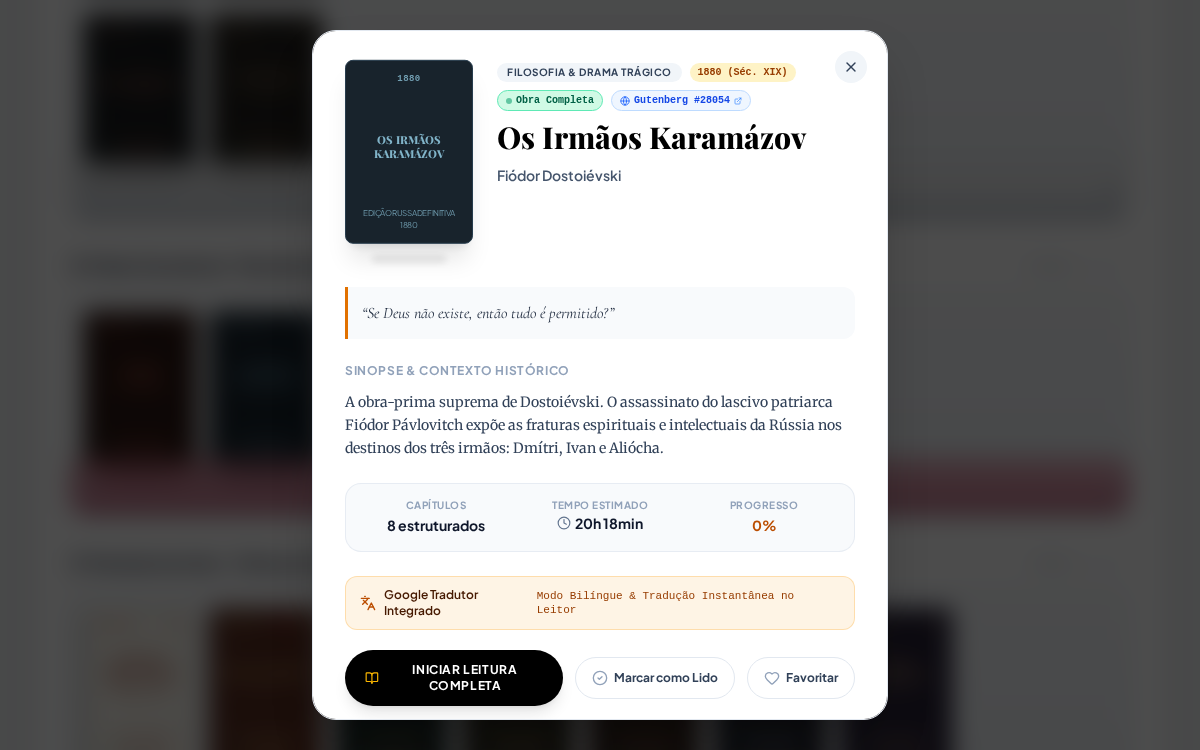
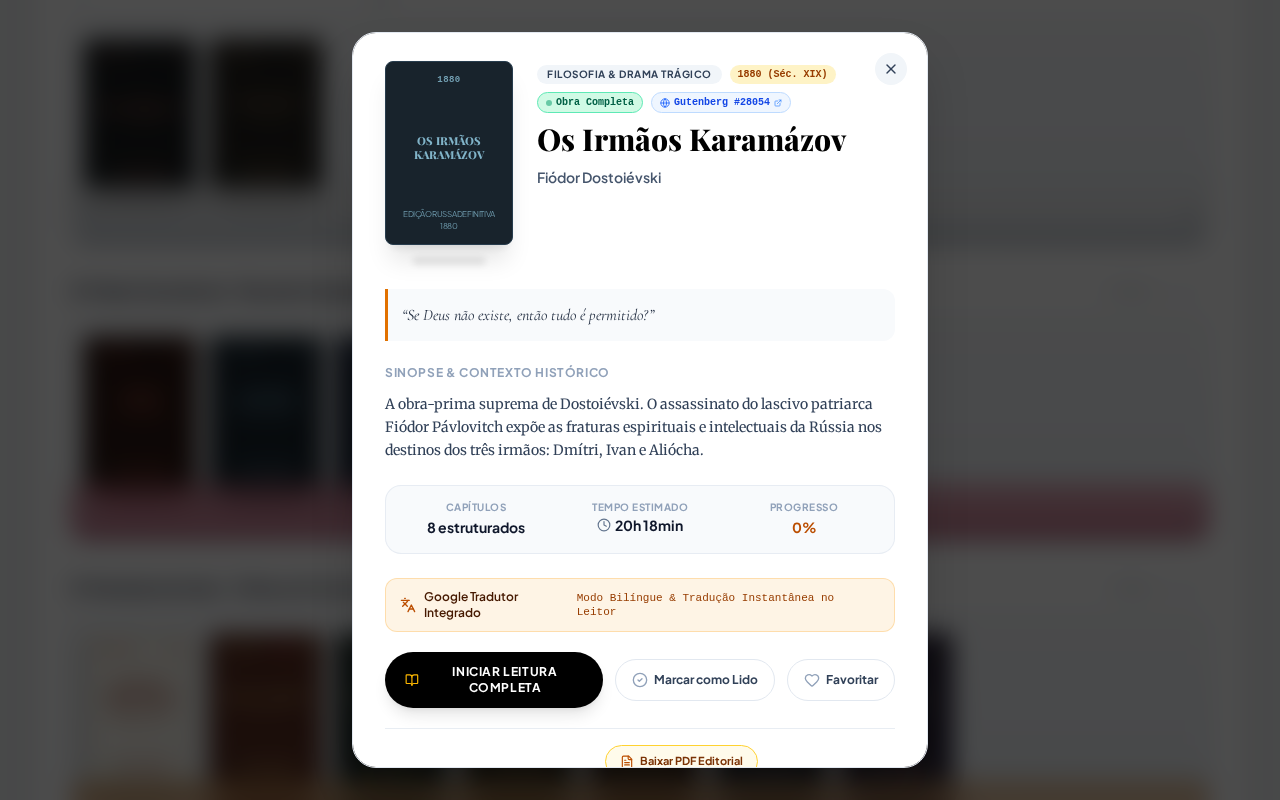
correção

diff --git a/scripts/record_hero_and_screenshots.js b/scripts/record_hero_and_screenshots.js
@@ -3,14 +3,14 @@ import { execSync } from 'child_process';
 import fs from 'fs';
 
 async function main() {
-  console.log('Iniciando captura via Playwright...');
+  console.log('Iniciando captura via Playwright com resolução nítida...');
   const browser = await chromium.launch({
     headless: true,
     args: ['--no-sandbox', '--disable-setuid-sandbox', '--disable-dev-shm-usage']
   });
 
   const context = await browser.newContext({
-    viewport: { width: 1200, height: 750 },
+    viewport: { width: 1280, height: 800 },
     deviceScaleFactor: 1
   });
 
@@ -18,71 +18,81 @@ async function main() {
   
   console.log('Navegando para http://localhost:3000...');
   await page.goto('http://localhost:3000', { waitUntil: 'networkidle' });
+  await page.evaluate(() => localStorage.clear());
+  await page.reload({ waitUntil: 'networkidle' });
   await page.waitForTimeout(2000);
 
   fs.mkdirSync('docs/images', { recursive: true });
+  fs.mkdirSync('public/docs/images', { recursive: true });
   fs.rmSync('/tmp/hero_frames', { recursive: true, force: true });
   fs.mkdirSync('/tmp/hero_frames', { recursive: true });
 
+  // 1. Banner Hero Real e GIF de animação suave dos personagens
   const heroElement = await page.$('div[style*="perspective"]');
   if (heroElement) {
-    console.log('1. Capturando Hero Banner real...');
+    console.log('1. Capturando Hero Banner real com iluminação e personagens...');
     await heroElement.screenshot({ path: 'docs/images/real-hero-banner.png' });
 
     console.log('2. Gravando frames da animação suave dos personagens no Hero...');
     const heroBox = await heroElement.boundingBox();
     if (heroBox) {
-      const totalFrames = 30; // loop suave de 30 frames
+      const totalFrames = 30;
       for (let i = 0; i < totalFrames; i++) {
-        // Movimento circular/senoidal suave simulando o cursor percorrendo o hero
         const angle = (i / totalFrames) * 2 * Math.PI;
-        const mouseX = heroBox.x + heroBox.width * (0.5 + 0.38 * Math.cos(angle));
-        const mouseY = heroBox.y + heroBox.height * (0.5 + 0.28 * Math.sin(angle));
+        const mouseX = heroBox.x + heroBox.width * (0.5 + 0.35 * Math.cos(angle));
+        const mouseY = heroBox.y + heroBox.height * (0.5 + 0.22 * Math.sin(angle));
 
         await page.mouse.move(mouseX, mouseY);
-        await page.waitForTimeout(30);
+        await page.waitForTimeout(40);
 
         const framePath = `/tmp/hero_frames/frame_${String(i).padStart(3, '0')}.png`;
         await heroElement.screenshot({ path: framePath });
       }
 
-      console.log('Gerando hero-animation.gif com ffmpeg...');
+      console.log('Gerando hero-animation.gif otimizado com ffmpeg...');
       execSync(`ffmpeg -y -framerate 15 -i /tmp/hero_frames/frame_%03d.png -filter_complex "[0:v]scale=860:-1:flags=lanczos,split[s0][s1];[s0]palettegen=max_colors=96[p];[s1][p]paletteuse=dither=bayer" docs/images/hero-animation.gif`);
       console.log('hero-animation.gif gerado com sucesso!');
     }
   }
 
-  // 3. Captura das Estantes de Acrílico (Dostoiévski e Machado)
+  // 3. Captura das Estantes de Acrílico (Dostoiévski, Tolstói, Machado)
   console.log('3. Capturando Estantes de Acrílico...');
-  await page.evaluate(() => window.scrollBy(0, 750));
-  await page.waitForTimeout(800);
+  await page.evaluate(() => {
+    const el = document.getElementById('prateleiras');
+    if (el) el.scrollIntoView({ behavior: 'instant' });
+    else window.scrollBy(0, 720);
+  });
+  await page.waitForTimeout(1000);
   await page.screenshot({ path: 'docs/images/real-acrylic-shelves.png' });
 
-  // 4. Abrir Dossiê ou Fichário dos Autores
+  // 4. Abrir Dossiê dos Autores
   console.log('4. Capturando Fichário dos Autores...');
   const dossierBtn = await page.$('button:has-text("Dossiês")') || await page.$('button:has-text("Arquivo dos Autores")');
   if (dossierBtn) {
     await dossierBtn.click();
-    await page.waitForTimeout(800);
+    await page.waitForTimeout(900);
     await page.screenshot({ path: 'docs/images/real-author-dossiers.png' });
     
-    // Fechar drawer/modal se houver botão de fechar
+    // Fechar modal
     const closeBtn = await page.$('button[title*="Fechar"], button:has(svg.lucide-x)');
     if (closeBtn) {
       await closeBtn.click();
-      await page.waitForTimeout(400);
+      await page.waitForTimeout(500);
     }
   }
 
   // 5. Clicar em um livro para capturar o Modal Editorial Real
   console.log('5. Clicando no livro para Modal Editorial...');
-  await page.evaluate(() => window.scrollTo(0, 700));
-  await page.waitForTimeout(500);
+  await page.evaluate(() => {
+    const el = document.getElementById('prateleiras');
+    if (el) el.scrollIntoView({ behavior: 'instant' });
+  });
+  await page.waitForTimeout(600);
 
   const bookCard = await page.$('text=Os Irmãos Karamázov') || await page.$('text=Crime e Castigo') || await page.$('div:has-text("OBRA COMPLETA")');
   if (bookCard) {
     await bookCard.click();
-    await page.waitForTimeout(800);
+    await page.waitForTimeout(900);
     await page.screenshot({ path: 'docs/images/real-book-modal.png' });
     console.log('Modal editorial capturado!');
 
@@ -91,24 +101,50 @@ async function main() {
     const readBtn = await page.$('text=INICIAR LEITURA COMPLETA') || await page.$('button:has-text("INICIAR")');
     if (readBtn) {
       await readBtn.click();
-      await page.waitForTimeout(1800);
+      await page.waitForTimeout(2500);
 
-      // Clicar no botão de Ajustes de Leitura
-      const adjustBtn = await page.$('button:has(svg.lucide-sliders)') || await page.$('button:has(svg.lucide-settings)');
-      if (adjustBtn) {
-        await adjustBtn.click();
-        await page.waitForTimeout(500);
+      // Avançar para o capítulo narrativo com prosa literária
+      const nextBtn = await page.$('button[title*="Próximo"], button:has-text("Próximo")');
+      if (nextBtn) {
+        console.log('Avançando para Capítulo I com narrativa completa...');
+        await nextBtn.click();
+        await page.waitForTimeout(1000);
       }
+
+      // Alternar para o Modo Noturno / Escuro clicando no botão de tema do leitor
+      const themeToggleBtn = await page.$('header button[title*="Tema"]');
+      if (themeToggleBtn) {
+        console.log('Ativando Modo Noturno no leitor...');
+        await themeToggleBtn.click();
+        await page.waitForTimeout(600);
+      }
+
+      // Clicar no botão de Ajustes de Leitura (MoreHorizontal com título "Ajustes e Ferramentas de Leitura")
+      const adjustBtn = await page.$('header button[title*="Ajustes e Ferramentas"]') || await page.$('header button:has(svg.lucide-more-horizontal)');
+      if (adjustBtn) {
+        console.log('Abrindo painel de Ajustes de Leitura...');
+        await adjustBtn.click();
+        await page.waitForTimeout(600);
+      }
+
       await page.screenshot({ path: 'docs/images/real-reader-view.png' });
-      console.log('Leitor imersivo capturado com sucesso!');
+      execSync('convert docs/images/real-reader-view.png -background "#0B0F19" -alpha remove -alpha off docs/images/real-reader-view.png');
+      console.log('Leitor imersivo em modo noturno capturado com sucesso!');
     }
   }
+
+  // Garantir remoção de transparência externa em real-hero-banner.png
+  execSync('convert docs/images/real-hero-banner.png -background "#090D16" -alpha remove -alpha off docs/images/real-hero-banner.png');
+
+  // Sincronizar todos os assets para public/docs/images
+  console.log('Sincronizando imagens para public/docs/images...');
+  execSync('cp -r docs/images/* public/docs/images/');
 
   await browser.close();
   console.log('Todas as capturas e GIFs foram concluídos com sucesso!');
 }
 
 main().catch(err => {
-  console.error('Erro:', err);
+  console.error('Erro na gravação:', err);
   process.exit(1);
 });

diff --git a/src/utils/epubLoader.ts b/src/utils/epubLoader.ts
@@ -32,7 +32,17 @@ function cleanHtmlToParagraphs(htmlString: string): string[] {
   blocks.forEach((b) => {
     // Ignora avisos legais do Project Gutenberg em rodapés se não forem parte do texto literário
     const raw = b.textContent?.trim() || '';
-    if (raw.length > 0 && !raw.includes('End of the Project Gutenberg') && !raw.includes('*** END OF THE PROJECT GUTENBERG')) {
+    if (
+      raw.length > 0 &&
+      !raw.includes('End of the Project Gutenberg') &&
+      !raw.includes('*** END OF THE PROJECT GUTENBERG') &&
+      !raw.includes('*** START OF THE PROJECT GUTENBERG') &&
+      !raw.includes('Project Gutenberg License') &&
+      !raw.includes('Project Gutenberg eBook') &&
+      !raw.startsWith('Title: ') &&
+      !raw.startsWith('Author: ') &&
+      !raw.startsWith('Release date: ')
+    ) {
       paragraphs.push(raw);
     }
   });
@@ -203,10 +213,10 @@ export async function loadEpubChapters(epubUrl: string): Promise<ChapterData[]> 
             tocMap.set(cleanHref, rawTitle);
           }
         }
-        // Extrai pontos navPoint do NCX
-        const ncxMatches = tocXml.matchAll(/<text>(.*?)<\/text>\s*<\/navLabel>\s*<content\s+src=["']([^"']+)["']/gs);
+        // Extrai pontos navPoint do NCX com regex segura
+        const ncxMatches = tocXml.matchAll(/<navLabel>\s*<text>([\s\S]*?)<\/text>\s*<\/navLabel>\s*<content\s+src=["']([^"']+)["']/g);
         for (const nm of ncxMatches) {
-          const rawTitle = nm[1].trim();
+          const rawTitle = nm[1].replace(/<[^>]+>/g, '').replace(/\s+/g, ' ').trim();
           const rawHref = nm[2].split('#')[0];
           if (rawHref && rawTitle && !tocMap.has(rawHref)) {
             tocMap.set(rawHref, rawTitle);
@@ -220,11 +230,16 @@ export async function loadEpubChapters(epubUrl: string): Promise<ChapterData[]> 
     let chapterCounter = 1;
 
     for (const href of spineHrefs) {
-      // Ignora páginas puramente de capa ou avisos de licença externa se não forem o livro
-      if (href.toLowerCase().includes('cover') && !href.toLowerCase().includes('chapter')) {
-        continue;
-      }
-      if (href.toLowerCase().includes('wrap0000')) {
+      const lowerHref = href.toLowerCase();
+      // Ignora páginas puramente de capa, sumário ou avisos de licença externa
+      if (
+        (lowerHref.includes('cover') && !lowerHref.includes('chapter')) ||
+        lowerHref.includes('wrap0000') ||
+        lowerHref.includes('pg-header') ||
+        lowerHref.includes('titlepage') ||
+        lowerHref.includes('toc') ||
+        lowerHref.endsWith('.ncx')
+      ) {
         continue;
       }
 
@@ -233,6 +248,18 @@ export async function loadEpubChapters(epubUrl: string): Promise<ChapterData[]> 
       if (!file) continue;
 
       const htmlContent = await file.async('text');
+
+      // Descarta páginas com cabeçalho ou boilerplate Gutenberg
+      if (
+        htmlContent.includes('pg-boilerplate') ||
+        htmlContent.includes('id="pg-header"') ||
+        htmlContent.includes('The Project Gutenberg eBook') ||
+        htmlContent.includes('class="pgheader"') ||
+        htmlContent.includes('Project Gutenberg License')
+      ) {
+        continue;
+      }
+
       const baseHref = href.split('#')[0];
       const mainTitle = tocMap.get(baseHref) || '';
 
@@ -269,6 +296,14 @@ export async function loadEpubChapters(epubUrl: string): Promise<ChapterData[]> 
         // Documento único por capítulo
         const paragraphs = cleanHtmlToParagraphs(htmlContent);
         if (paragraphs.length === 0) continue;
+        if (paragraphs.length <= 2 && paragraphs.some((p) => p.includes('Gutenberg') || p.includes('eBook') || p.includes('Transcribed from') || p.includes('License'))) {
+          continue;
+        }
+        // Descarta folhas de divisão ou títulos de partes com menos de 160 caracteres
+        const totalChars = paragraphs.reduce((sum, p) => sum + p.length, 0);
+        if (paragraphs.length <= 2 && totalChars < 160) {
+          continue;
+        }
 
         let chapterTitle = mainTitle;
         if (!chapterTitle) {

diff --git a/src/components/Showcase/RenaissanceParallaxHero.tsx b/src/components/Showcase/RenaissanceParallaxHero.tsx
@@ -353,11 +353,10 @@ export const RenaissanceParallaxHero: React.FC<RenaissanceParallaxHeroProps> = (
           </motion.div>
         </motion.div>
 
-        {/* ============================================================== */}
-        {/* RODAPÉ DO HERO: Totalmente limpo conforme pedido */}
-        {/* (Removidos textos do canto inferior para máxima clareza visual) */}
+        {/* Gradiente sutil de chão (z-25) sobrepondo a base dos personagens para fusão perfeita na biblioteca */}
+        <div className="absolute bottom-0 inset-x-0 h-14 bg-gradient-to-t from-[#0C0806] via-[#0C0806]/70 to-transparent pointer-events-none z-25" />
+
         {/* Espaçador invisível para manter a altura harmoniosa */}
-        {/* ============================================================== */}
         <div className="relative z-30 h-6 pointer-events-none" />
       </div>
     </div>
